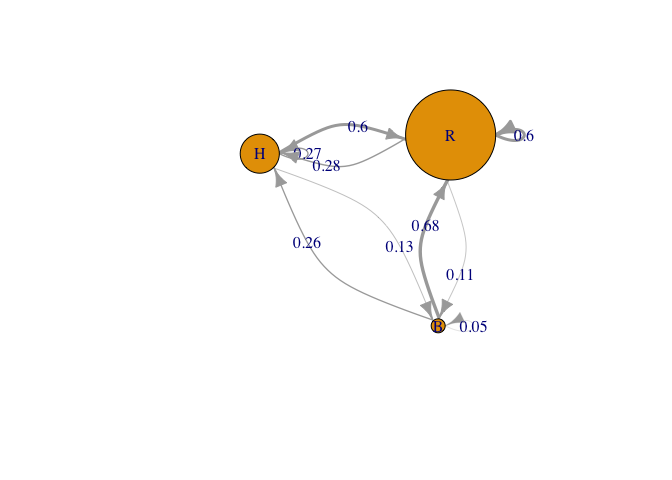
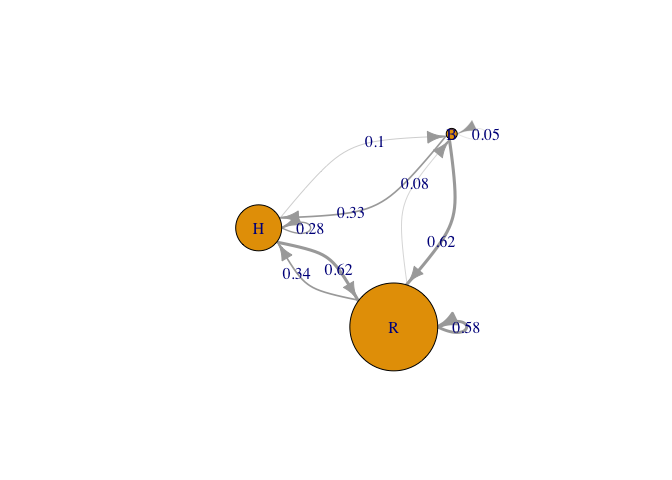
Fixing typos

Changed region(s): [[0.3438, 0.1875, 0.8125, 0.7812]]

diff --git a/markov_chain_example.md b/markov_chain_example.md
@@ -49,7 +49,7 @@ library(igraph)
 Here is our example data:
 
 ``` r
-# Example transitions for a single individual (H=helper, R=recprocator, B=benefactor)
+# Example transitions for a single individual (H=helper, R=reciprocator, B=beneficiary)
 x <- sample(c("H", "R", "B"), 1000, replace = T, prob=c(.30, .60, .10)) # here I am creating a random vector of states (which in your case would be the sequence of states of your individual buyers)
 
 # Count: 
@@ -58,7 +58,7 @@ table(x)
 
     ## x
     ##   B   H   R 
-    ## 110 279 611
+    ##  84 319 597
 
 ``` r
 # Proportion
@@ -67,15 +67,15 @@ table(x)/length(x)
 
     ## x
     ##     B     H     R 
-    ## 0.110 0.279 0.611
+    ## 0.084 0.319 0.597
 
 ## Calculating a transition matrix - the packaged way
 
-If you prefer to use a ready made function, use the `markovchainFit()`
+If you prefer to use a ready-made function, use the `markovchainFit()`
 function from the `markovchain` package:
 
 ``` r
-# using markovchainFit from the markovchain pacakge
+# using markovchainFit from the markovchain package
 mcFit <- markovchainFit(data=x)
 # look at results
 show(mcFit)
@@ -87,34 +87,34 @@ show(mcFit)
     ##  B, H, R 
     ##  The transition matrix  (by rows)  is defined as follows: 
     ##            B         H         R
-    ## B 0.05454545 0.2636364 0.6818182
-    ## H 0.12544803 0.2724014 0.6021505
-    ## R 0.11311475 0.2836066 0.6032787
+    ## B 0.04761905 0.3333333 0.6190476
+    ## H 0.09717868 0.2821317 0.6206897
+    ## R 0.08221477 0.3372483 0.5805369
     ## 
     ## 
     ## $standardError
     ##            B          H          R
-    ## B 0.02226809 0.04895604 0.07872958
-    ## H 0.02120459 0.03124659 0.04645692
-    ## R 0.01361742 0.02156221 0.03144808
+    ## B 0.02380952 0.06299408 0.08584646
+    ## H 0.01745381 0.02973929 0.04411049
+    ## R 0.01174497 0.02378766 0.03120986
     ## 
     ## $confidenceLevel
     ## [1] 0.95
     ## 
     ## $lowerEndpointMatrix
-    ##            B         H         R
-    ## B 0.01090079 0.1676843 0.5275110
-    ## H 0.08388779 0.2111592 0.5110966
-    ## R 0.08642510 0.2413454 0.5416416
+    ##              B         H         R
+    ## B 0.0009532288 0.2098672 0.4507916
+    ## H 0.0629698436 0.2238437 0.5342347
+    ## R 0.0591950491 0.2906254 0.5193667
     ## 
     ## $upperEndpointMatrix
     ##            B         H         R
-    ## B 0.09819012 0.3595885 0.8361254
-    ## H 0.16700826 0.3336436 0.6932045
-    ## R 0.13980440 0.3258677 0.6649158
+    ## B 0.09428487 0.4567995 0.7873036
+    ## H 0.13138752 0.3404196 0.7071447
+    ## R 0.10523448 0.3838713 0.6417071
     ## 
     ## $logLikelihood
-    ## [1] -895.911
+    ## [1] -877.5118
 
 # Calculating a transition matrix - DIY
 
@@ -147,7 +147,7 @@ trans.matrix <- function(X, prob=T)
 }
 ```
 
-Let us test this function with out initial sequence `x`:
+Let us test this function without initial sequence `x`:
 
 ``` r
 # calculate transition matrix
@@ -156,9 +156,9 @@ mcFit2
 ```
 
     ##            B         H         R
-    ## B 0.05454545 0.2636364 0.6818182
-    ## H 0.12544803 0.2724014 0.6021505
-    ## R 0.11311475 0.2836066 0.6032787
+    ## B 0.04761905 0.3333333 0.6190476
+    ## H 0.09717868 0.2821317 0.6206897
+    ## R 0.08221477 0.3372483 0.5805369
 
 Compare `mcFit2` with the estimate of `mcFit` and you’ll see that this
 produces the same result. Of course, when using the markovchain package
